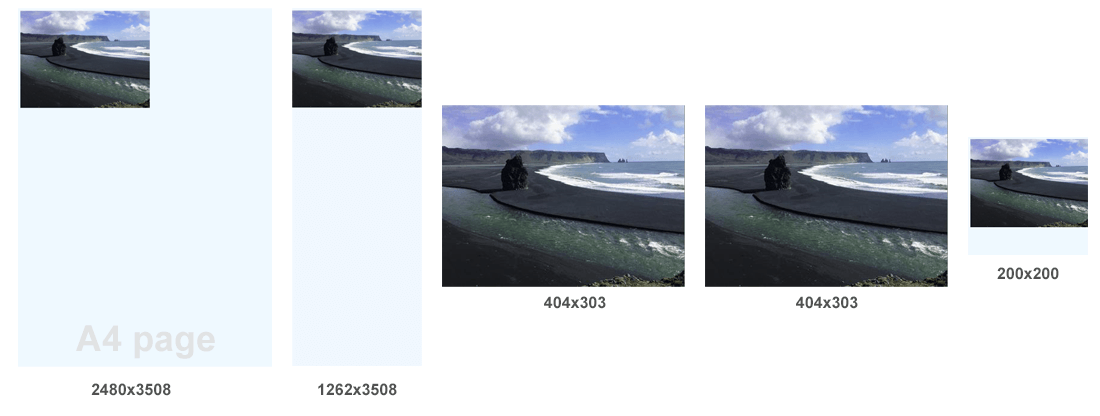
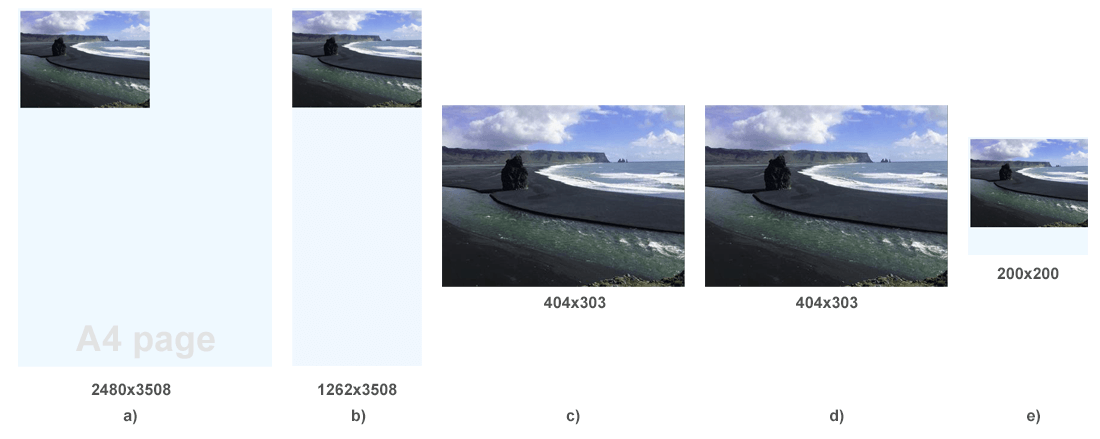
Updated article "How to Resize Document"

diff --git a/content/net/converting-between-formats/resize-document/rendering.html b/content/net/converting-between-formats/resize-document/rendering.html
@@ -1,0 +1,7 @@
+<html>
+<head>
+</head>
+<body style="background:#eff8ff;">
+<image src="Iceland1.png">
+</body>
+</html>

diff --git a/content/net/converting-between-formats/resize-document/_index.md b/content/net/converting-between-formats/resize-document/_index.md
@@ -1,7 +1,7 @@
 ---
 title: How to Resize Document During Conversion from HTML? - C#
 linktitle: How to Resize Document
-keywords: resize document, how to resize document, render html, rendering html, fit size, crop html, c# render html, fit document, crop document, rendering device, rendering options
+keywords: resize document, how to resize document, render html, rendering html, fit size, crop html, fit document, fit page, crop document, rendering device, rendering options, page size
 description: Learn how to use rendering options to resize document pages to the size of the content and vice versa.
 weight: 190
 type: docs
@@ -15,20 +15,26 @@ In today's world, most documents are in A4 format, but sometimes content rendere
 
 ## **How to Resize Document Using Aspose.HTML**
 
-The [Aspose.Html.Rendering](https://reference.aspose.com/html/net/aspose.html.rendering/) namespace provides a powerful set of tools such as low-level options classes, interfaces, structures, and enumerations for rendering HTML, MHTML, EPUB and SVG documents to different output formats such as PDF, XPS, DOCX, and images. 
+The [Aspose.Html.Rendering](https://reference.aspose.com/html/net/aspose.html.rendering/) namespace provides a powerful set of tools such as low-level options classes, interfaces, structures, and enumerations for rendering HTML, MHTML, EPUB, and SVG documents to different output formats such as PDF, XPS, DOCX, and images. The [PageSize](https://reference.aspose.com/html/net/aspose.html.rendering/renderingoptions/pagesetup/) class of provides a way to specify the width, height, and orientation of the pages when rendering HTML documents to output formats. But sometimes, you may need to crop documents to create a smaller page size that fits the page's content size. This means the outer margins, borders, or empty space will be removed. 
 
-The [PageSize](https://reference.aspose.com/html/net/aspose.html.rendering/renderingoptions/pagesetup/) class of the Aspose.Html.Rendering namespace provides a way to specify the width, height, and orientation of the pages when rendering HTML documents to output formats such as PDF, XPS, DOCX, and images.
+The Aspose.HTML for .NET library allows you to adjust the page size to the content and vice versa using the [PageLayoutOptions](https://reference.aspose.com/html/net/aspose.html.rendering/pagesetup/pagelayoutoptions/) property of the [PageSetup](https://reference.aspose.com/html/net/aspose.html.rendering/pagesetup/) object. This property is a set of bit flags that control the behavior of the renderer.
 
-### **What is the difference between cropping and resizing a document?**
+{{% alert color="primary" %}}
+You can easily use C# examples of converting HTML to Images with a custom page layout to convert HTML to PDF, XPS, and DOCX. The only differences are in specifying 
+ - the appropriate rendering options - ImageRenderingOption, PdfRenderingOption, XpsRenderingOption, or DocRenderingOption;
+ - the appropriate output device - ImageDevice, PdfDevice, XpsDevice or DocDevice.
+{{% /alert %}}
 
 ### **Convert HTML to PNG with Default Rendering Options**
 
 To convert HTML to PNG with default rendering options, you should follow a few steps:
 
-1. Use one of the [HTMLDocument()](https://reference.aspose.com/html/net/aspose.html/htmldocument/htmldocument/) constructors to initialize a `document` instance. In the following examples, we load the local `rendering.html` file.
+1. Use one of the [HTMLDocument()](https://reference.aspose.com/html/net/aspose.html/htmldocument/htmldocument/) constructors to initialize a `document` instance. In the following examples, we load the local [rendering.html](/html/net/resize-document/rendering.html) file.
 1. Initialize an instance of the [ImageRenderingOption](https://reference.aspose.com/html/net/aspose.html.rendering.image/imagerenderingoptions/) class if you want to convert HTML to an image file format. By default `ImageFormat` is PNG. Also, **note** that by default `HorizontalResolution` and `VerticalResolution` properties are 300 dpi. So, the rendered image will be stretched in height and width by about 3 times since the source content's resolution is 96 dpi. 
-1. Create a new instance of the [ImageDevice](https://reference.aspose.com/svg/net/aspose.svg.rendering.image/imagedevice/) class. Use the [ImageDevice()](https://reference.aspose.com/html/net/aspose.html.rendering.image/imagedevice/imagedevice/#constructor_3) consrtructor that takes `options` and output file path `savePath` as parameters.
+1. Create a new instance of the [ImageDevice](https://reference.aspose.com/html/net/aspose.html.rendering.image/imagedevice/) class. Use the [ImageDevice()](https://reference.aspose.com/html/net/aspose.html.rendering.image/imagedevice/imagedevice/#constructor_3) consrtructor that takes `options` and output file path `savePath` as parameters.
 1. Use the [RenderTo(device)](https://reference.aspose.com/html/net/aspose.html/htmldocument/renderto/) method to convert HTML to PNG, which takes the `device` object as a parameter.
+
+Further, the fragment of C# code shows an example of converting an HTML document to an image without any additional options, i.e. with default rendering options. As a result of the conversion, an A4 PNG document was obtained with a lot of empty space (see [illustrations of conversion results (a).](/html/net/resize-document/#figures-of-the-conversion-results-with-crop-and-resize))
 
 {{< highlight java >}}
 using System.IO;
@@ -52,9 +58,9 @@ using Aspose.Html.Rendering.Image;
     document.RenderTo(device);
 {{< /highlight >}}
 
-## **Rendering Options**
+### **Rendering Options**
 
-[PageLayoutOptions](https://reference.aspose.com/html/net/aspose.html.rendering/pagelayoutoptions/) enumeration of the Aspose.Html.Rendering namespace specifies flags that, together with other PageSetup options, determine sizes and layouts of pages. These flags can be combined together according to their descriptions.
+[PageLayoutOptions](https://reference.aspose.com/html/net/aspose.html.rendering/pagelayoutoptions/) enumeration of the Aspose.Html.Rendering namespace specifies flags that, together with other [PageSetup](https://reference.aspose.com/html/net/aspose.html.rendering/pagesetup/) options, determine sizes and layouts of pages. These flags can be combined together according to their descriptions.
 
 | Name                                                     | Description                                                  |
 | :----------------------------------------------------------- | :----------------------------------------------------------- |
@@ -65,8 +71,17 @@ using Aspose.Html.Rendering.Image;
 | ScaleToPageWidth | This flag indicates that the document's content will be scaled to fit the page. It collides with the `FitToContentWidth` flag, and if both flags are specified, only ScaleToPageWidth will take effect.|
 | ScaleToPageHeight | This flag indicates that the document's content will be scaled to fit the height of the first page. It collides with the `FitToContentHeight` flag, and if both flags are specified, only `ScaleToPageHeight` will take effect. All document content will be placed on a single page only. |
 
+{{% alert color="primary" %}} 
+You can download the complete C# examples and data files from [**GitHub.**](https://github.com/aspose-html/Aspose.HTML-Documentation/tree/main/content/tests-net)
+{{% /alert %}} 
 
-### **Convert HTML to JPG Using FitToWidestContentWidth**
+### **Fit Page to Width when Converting HTML to JPG**
+
+In order to fit page width of the output image to the width of the content, you need to use the `FitToContentWidth` flag, or the `FitToWidestContentWidth` flag, which will fit the width of the resulting document to the width of the widest page. Let's look at the steps you should follow:
+
+1. Load an HTML file. In the example, the [HTMLDocument(`documentPath`)](https://reference.aspose.com/html/net/aspose.html/htmldocument/htmldocument/#constructor_10) constructor loads the HTML document from a local file system. 
+1. Create an instance of the [ImageRenderingOption](https://reference.aspose.com/html/net/aspose.html.rendering.image/imagerenderingoptions/) class. In this example, we set the [PageLayoutOptions](https://reference.aspose.com/html/net/aspose.html.rendering/pagesetup/pagelayoutoptions/) property to `FitToWidestContentWidth`, which means that the output document's page width will fit the widest content page's width.
+1. Create a new instance of the [ImageDevice](https://reference.aspose.com/html/net/aspose.html.rendering.image/imagedevice/) class and pass it to the [RenderTo(device)](https://reference.aspose.com/html/net/aspose.html/htmldocument/renderto/) method to convert HTML to JPG.
 
 {{< highlight java >}}
 using System.IO;
@@ -97,7 +112,11 @@ using Aspose.Html.Rendering.Image;
     document.RenderTo(device);
 {{< /highlight >}}
 
-### **Convert HTML to JPG Using ???**
+The HTML to JPG conversion resulted in a JPG document with a page width that fits the width of the content, but with a page height that matches the height of the format A4 (see [illustrations of conversion results (b)](/html/net/resize-document/#figures-of-the-conversion-results-with-crop-and-resize)).
+
+### **Crop HTML to PNG Rendered  Result**
+
+To make the output page size match the height of the image in the source file, you must set the `FitToContentHeight` flag in the [PageLayoutOptions](https://reference.aspose.com/html/net/aspose.html.rendering/pagesetup/pagelayoutoptions/) property. The following example shows a combination of two flags, `FitToContentHeight` and `FitToContentWidth`.
 
 {{< highlight java >}}
 using System.IO;
@@ -114,7 +133,7 @@ using Aspose.Html.Rendering.Image;
     // Create an instance of HTMLDocument class
     using var document = new HTMLDocument(documentPath);
 
-    // Initialize an ImageRenderingOptions object with custom options. Use FitToContentWidth and FitToContentHeight flags
+    // Initialize an ImageRenderingOptions object with custom options. Use `FitToContentWidth` and FitToContentHeight flags
     var opt = new ImageRenderingOptions()
     {
         PageSetup =
@@ -130,7 +149,16 @@ using Aspose.Html.Rendering.Image;
     document.RenderTo(device);
 {{< /highlight >}}
 
-### **Convert HTML to JPG Using ???h**
+### **Fit Page Size to Content of Rendering HTML to JPG**
+
+In the following example, the [AnyPage](https://reference.aspose.com/html/net/aspose.html.rendering/pagesetup/anypage/) property sets the page size to 20x20 px, which is not large enough to fit the HTML document's content when rendered to an image. Using PageLayoutOptions with the `FitToWidestContentWidth` and `FitToContentHeight` flags causes the page to grow in size to fit the content.
+
+1. Create an [HTMLDocument](https://reference.aspose.com/html/net/aspose.html/htmldocument/) instance. In the following examples, we load the local `rendering.html` file.
+1. Initialize an instance of the [ImageRenderingOption](https://reference.aspose.com/html/net/aspose.html.rendering.image/imagerenderingoptions/) class if you want to convert HTML to JPG file format.
+    - Specify the `ImageFormat` as `Jpeg`.
+    - Create a `PageSetup` object with the `PageLayoutOptions` property with the `FitToWidestContentWidth` and `FitToContentHeight` flags set. This ensures that the output image will fit the width and height of the content without any empty space
+1. Create a new instance of the [ImageDevice](https://reference.aspose.com/html/net/aspose.html.rendering.image/imagedevice/) class.
+1. Use the [RenderTo(device)](https://reference.aspose.com/html/net/aspose.html/htmldocument/renderto/) method to convert HTML to JPG, which takes the `device` object as a parameter.
 
 {{< highlight java >}}
 using System.IO;
@@ -163,7 +191,11 @@ using Aspose.Html.Rendering.Image;
     document.RenderTo(device);
 {{< /highlight >}}
 
-### **Convert HTML to JPG Using ???h**
+Despite setting the page size as 20x20 pixels, the `FitToWidestContentWidth` and `FitToContentHeight` flags allow us to fit the resulting JPG document would have a page size that fits the content size (see the [illustration of conversion results (d)](/html/net/resize-document/#figures-of-the-conversion-results-with-crop-and-resize)).
+
+### **Scale Page Size During Converting HTML to PNG**
+
+By analogy with the `FitTo*` flags that control page sizes, there is a set of `ScaleTo*` flags that control content sizes and allow to scale it. If the content size exceeds the page size, the content is scaled with aspect ratio until it fits on the page in width and/or height, depending on the combination of flags. The following example shows how to set the width and height scaling of content:
 
 {{< highlight java >}}
 using System.IO;
@@ -196,27 +228,32 @@ using Aspose.Html.Rendering.Image;
     document.RenderTo(device);
 {{< /highlight >}}
 
+In the example, the [AnyPage](https://reference.aspose.com/html/net/aspose.html.rendering/pagesetup/anypage/) property of the `PageSetup` sets a new [Page](https://reference.aspose.com/html/net/aspose.html.drawing/page/) object with a `Size` of 200x200 pixels. This sets the page size to 200x200 pixels.
+Then we set the [PageLayoutOptions](https://reference.aspose.com/html/net/aspose.html.rendering/pagesetup/pagelayoutoptions/) property of the `PageSetup` object to include the `ScaleToPageWidth` and `ScaleToPageHeight` flags. This means that the output document content will be scaled to fit within the page's width and/or height (see the [illustration of conversion results (e).](/html/net/resize-document/#figures-of-the-conversion-results-with-crop-and-resize))
 
 
-This way, you can easily convert an HTML file into a flattened PDF using C#. This process is straightforward and can be done with a few lines of code. Let's look at the steps we have taken:
+## **Figures of the Conversion Results with Crop and Resize**
 
-1. Use one of the constructors of the [HTMLDocument](https://reference.aspose.com/html/net/aspose.html/htmldocument/htmldocument/) class to load an HTML file. In the example, the [HTMLDocument(`sourcePath`)](https://reference.aspose.com/html/net/aspose.html/htmldocument/htmldocument/#constructor_10) constructor loads the HTML document from a local file system. 
-2. Create an instance of the [PdfSaveOptions](https://reference.aspose.com/html/net/aspose.html.saving/pdfsaveoptions/) class that is used to specify the options for saving a PDF document. In this case, the [FormFieldBehaviour](https://reference.aspose.com/html/net/aspose.html.rendering.pdf/pdfrenderingoptions/formfieldbehaviour/) property of PdfSaveOptions is set to `FormFieldBehaviour.Flattened`, which means that all form fields in the HTML document will be flattened when the PDF document is created.
-3. Call the [ConvertHTML()](https://reference.aspose.com/html/net/aspose.html.converters/converter/converthtml/#converthtml_7) method to convert HTML to PDF using the specified options, and the resulting PDF document is saved to `resultPath`.
+The figure shows the results of converting the rendering.html file to PNG, JPG, and PDF formats using the RenderTo() method and various rendering options that control the page size of the output document. 
 
-
-The figure shows the bmp-output-options.bmp file.
+**Note:** The source image size in [rendering.html](/html/net/resize-document/rendering.html) file is 404x303, with a resolution of 96 dpi.
 
 ![Text "The image ilustrates results of document resizing"](resize-document.png#center)
 
-### **What is the difference between PDF files saved with and without FormFieldBehaviour property?**
+**a)** The result of HTML to PNG conversion with default rendering options is an A4 page size PNG document with a lot of empty space on it. The rendered image on the A4 page is stretched in height and width by about 3 times since the default resolution is 300 dpi. 
 
-1. If the FormFieldBehaviour property is set to `FormFieldBehaviour.Flattened`, form fields in the PDF document will be merged into one layer of the document. This effectively flattens the form fields, making them non-interactive and impossible to edit. The result is a static PDF document that cannot be altered.
-2. On the other hand, if the FormFieldBehaviour property is set to `FormFieldBehaviour.Interactive`, form fields in the PDF document will remain interactive. This means that users can fill out the form fields and make changes. 
-3. In Aspose.HTML, the **default value** for the FormFieldBehaviour property is `FormFieldBehaviour.Interactive`. If the FormFieldBehaviour property is not explicitly set, form fields in the PDF document will remain interactive, allowing users to fill out and edit them.
+**b)** The HTML to JPG conversion resulted in a JPG document with a page width that fits the width of the content, but with a page height that matches the height of the format A4. The rendered image on the A4 page is stretched in height and width by about 3 times since the default resolution is 300 dpi. 
 
-{{% alert color="primary" %}} 
-Aspose.HTML offers free online [**Converters**](https://products.aspose.app/html/conversion) for converting HTML, XHTML, MHTML, EPUB, XML and Markdown files to a variety of popular formats.  You can easily convert  [HTML to PDF,](https://products.aspose.app/html/conversion/html-to-pdf) [HTML to JPG,](https://products.aspose.app/html/conversion/html-to-jpg) [SVG to PDF,](https://products.aspose.app/svg/conversion/svg-to-pdf) [MHTML to PDF,](https://products.aspose.app/html/conversion/mhtml-to-pdf) or [MD to HTML.](https://products.aspose.app/html/conversion/md-to-html) Just select the file, choose the format to convert, and you're done. It's fast and completely free!
+**c)** The result of converting HTML to PNG with cropping the output document to fit the page size to the size of the content.
+
+**d)** Even though the page size was set as 20x20 px, using the `FitToWidestContentWidth` and `FitToContentHeight` flags made it possible to get the resulting JPG document with a page size that fits the size of the content.
+
+**e)** The result of rendering HTML to image when the content size is larger than the page size. We scaled down the content to fit the page size of 200x200 px.
+
+{{% alert color="primary" %}}
+You can download the complete C# examples and data files from [**GitHub.**](https://github.com/aspose-html/Aspose.HTML-Documentation/tree/main/content/tests-net)
+
+Aspose.HTML offers free online [**Converters**](https://products.aspose.app/html/conversion) for converting HTML, XHTML, MHTML, EPUB, XML, and Markdown files to various popular formats. For example, you can easily convert HTML to PDF, HTML to JPG, HTML to XHTML, SVG to PDF, MHTML to PDF, MD to HTML, etc. Just select the file, choose the format to convert, and you’re done. It’s fast and completely free!
 {{% /alert %}} 
 
 <a href="https://products.aspose.app/html/conversion" target="_blank">![Text "Banner Free Online Converters"](./../../images/converters.png#center)</a>
